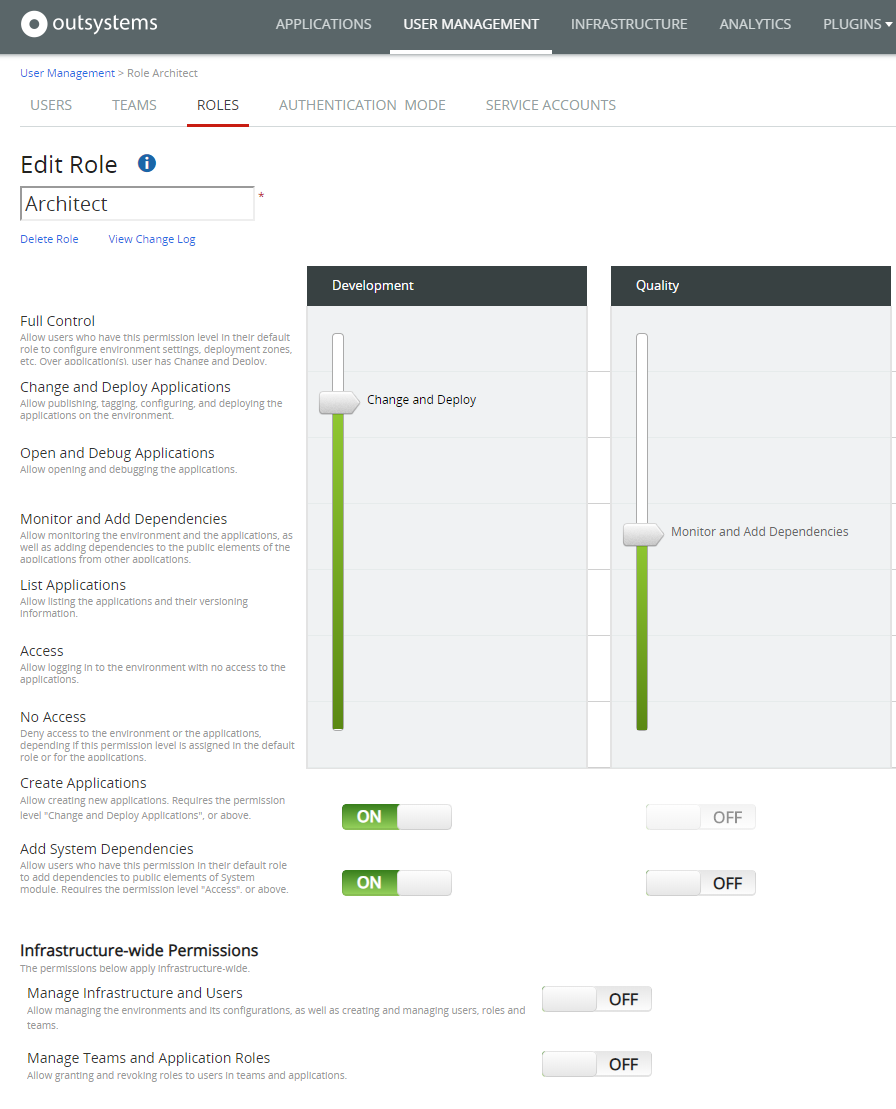
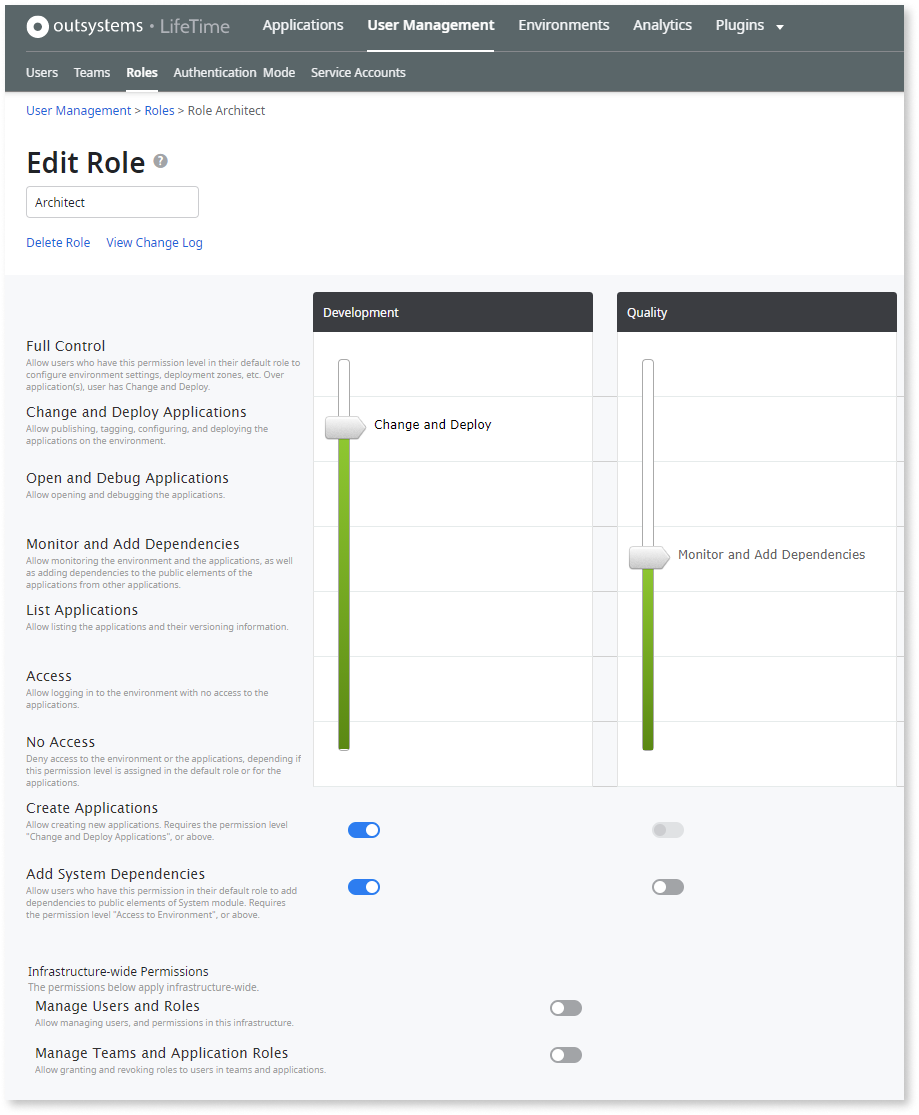
Removed content for self-managed. Updated screenshots with cloud version.

diff --git a/src/managing-the-applications-lifecycle/manage-it-teams/about-permission-levels.md b/src/managing-the-applications-lifecycle/manage-it-teams/about-permission-levels.md
@@ -31,7 +31,7 @@ Each role is defined by a set of permissions that determine which operations the
 :   Can be turned on/off for a specific environment.
 
 **Infrastructure-wide permissions**
-:   Control who can manage IT users, teams, and roles across the infrastructure. For self-managed infrastructures, allow managing the environments and its configurations.
+:   Control who can manage IT users, teams, and roles across the infrastructure.
 
 ![](images/lt-about-permission-levels-5.png?width=800)
 
@@ -253,29 +253,11 @@ Except for the lowest one, "No Access", each permission level is cumulative with
 
 <table markdown="1">
 <tr>
-<th style="text-align: left" colspan="2">Manage Users and Roles (applies only to OutSystems Cloud)</th>
+<th style="text-align: left" colspan="2">Manage Users and Roles</th>
 </tr>
 <tr>
 <td>Assigned as **Default Role**</td>
 <td>The user can add, edit and remove IT users, roles and teams. The user can also turn on/off features in Technical Preview. Setting this permission ON also sets ON the permission "Manage Teams and Application Roles"."</td>
-</tr>
-<tr>
-<td>Assigned for a **Team**</td>
-<td>Not applicable.</td>
-</tr>
-<tr>
-<td>Assigned for an **Application**</td>
-<td>Not applicable.</td>
-</tr>
-</table>
-
-<table markdown="1">
-<tr>
-<th style="text-align: left" colspan="2">Manage Infrastructure and Users (applies only to self-managed infrastructures)</th>
-</tr>
-<tr>
-<td>Assigned as **Default Role**</td>
-<td>The user can add, edit, remove and switch infrastructure environments, as well as turn on/off features in Technical Preview. The user can also add, edit and remove IT users, roles and teams. Setting this permission ON also sets ON the permission "Manage Teams and Application Roles".</td>
 </tr>
 <tr>
 <td>Assigned for a **Team**</td>
